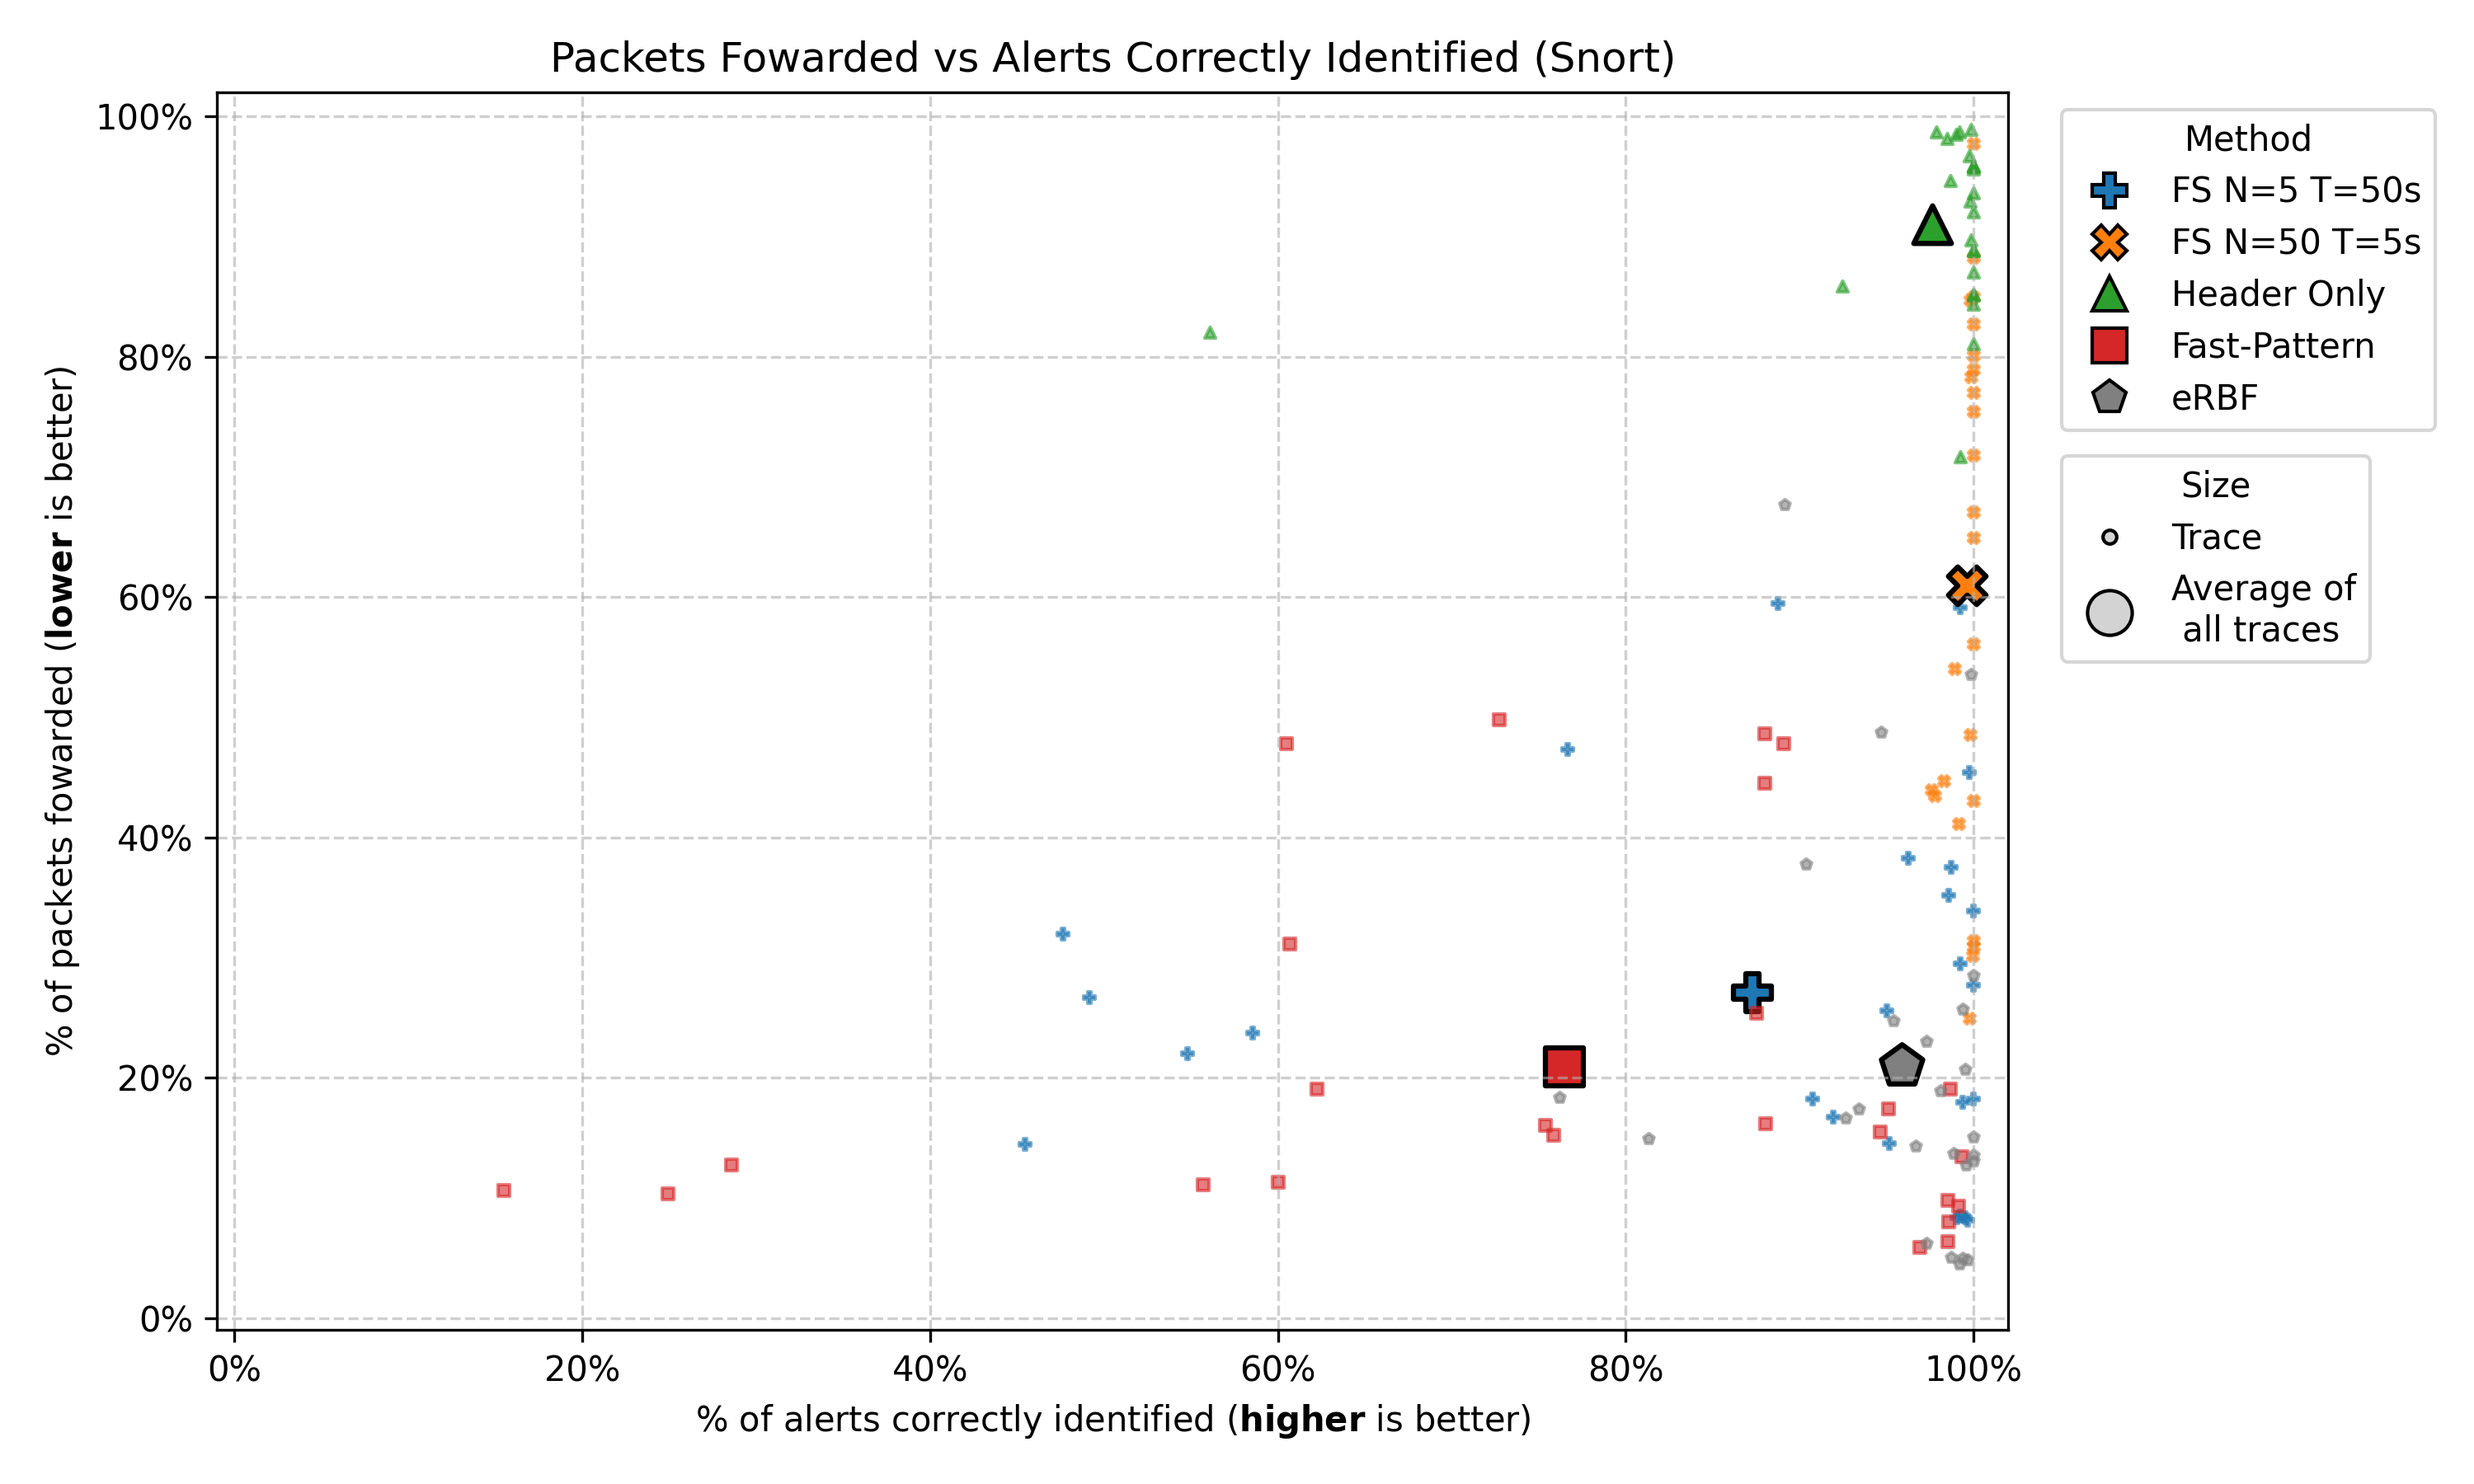
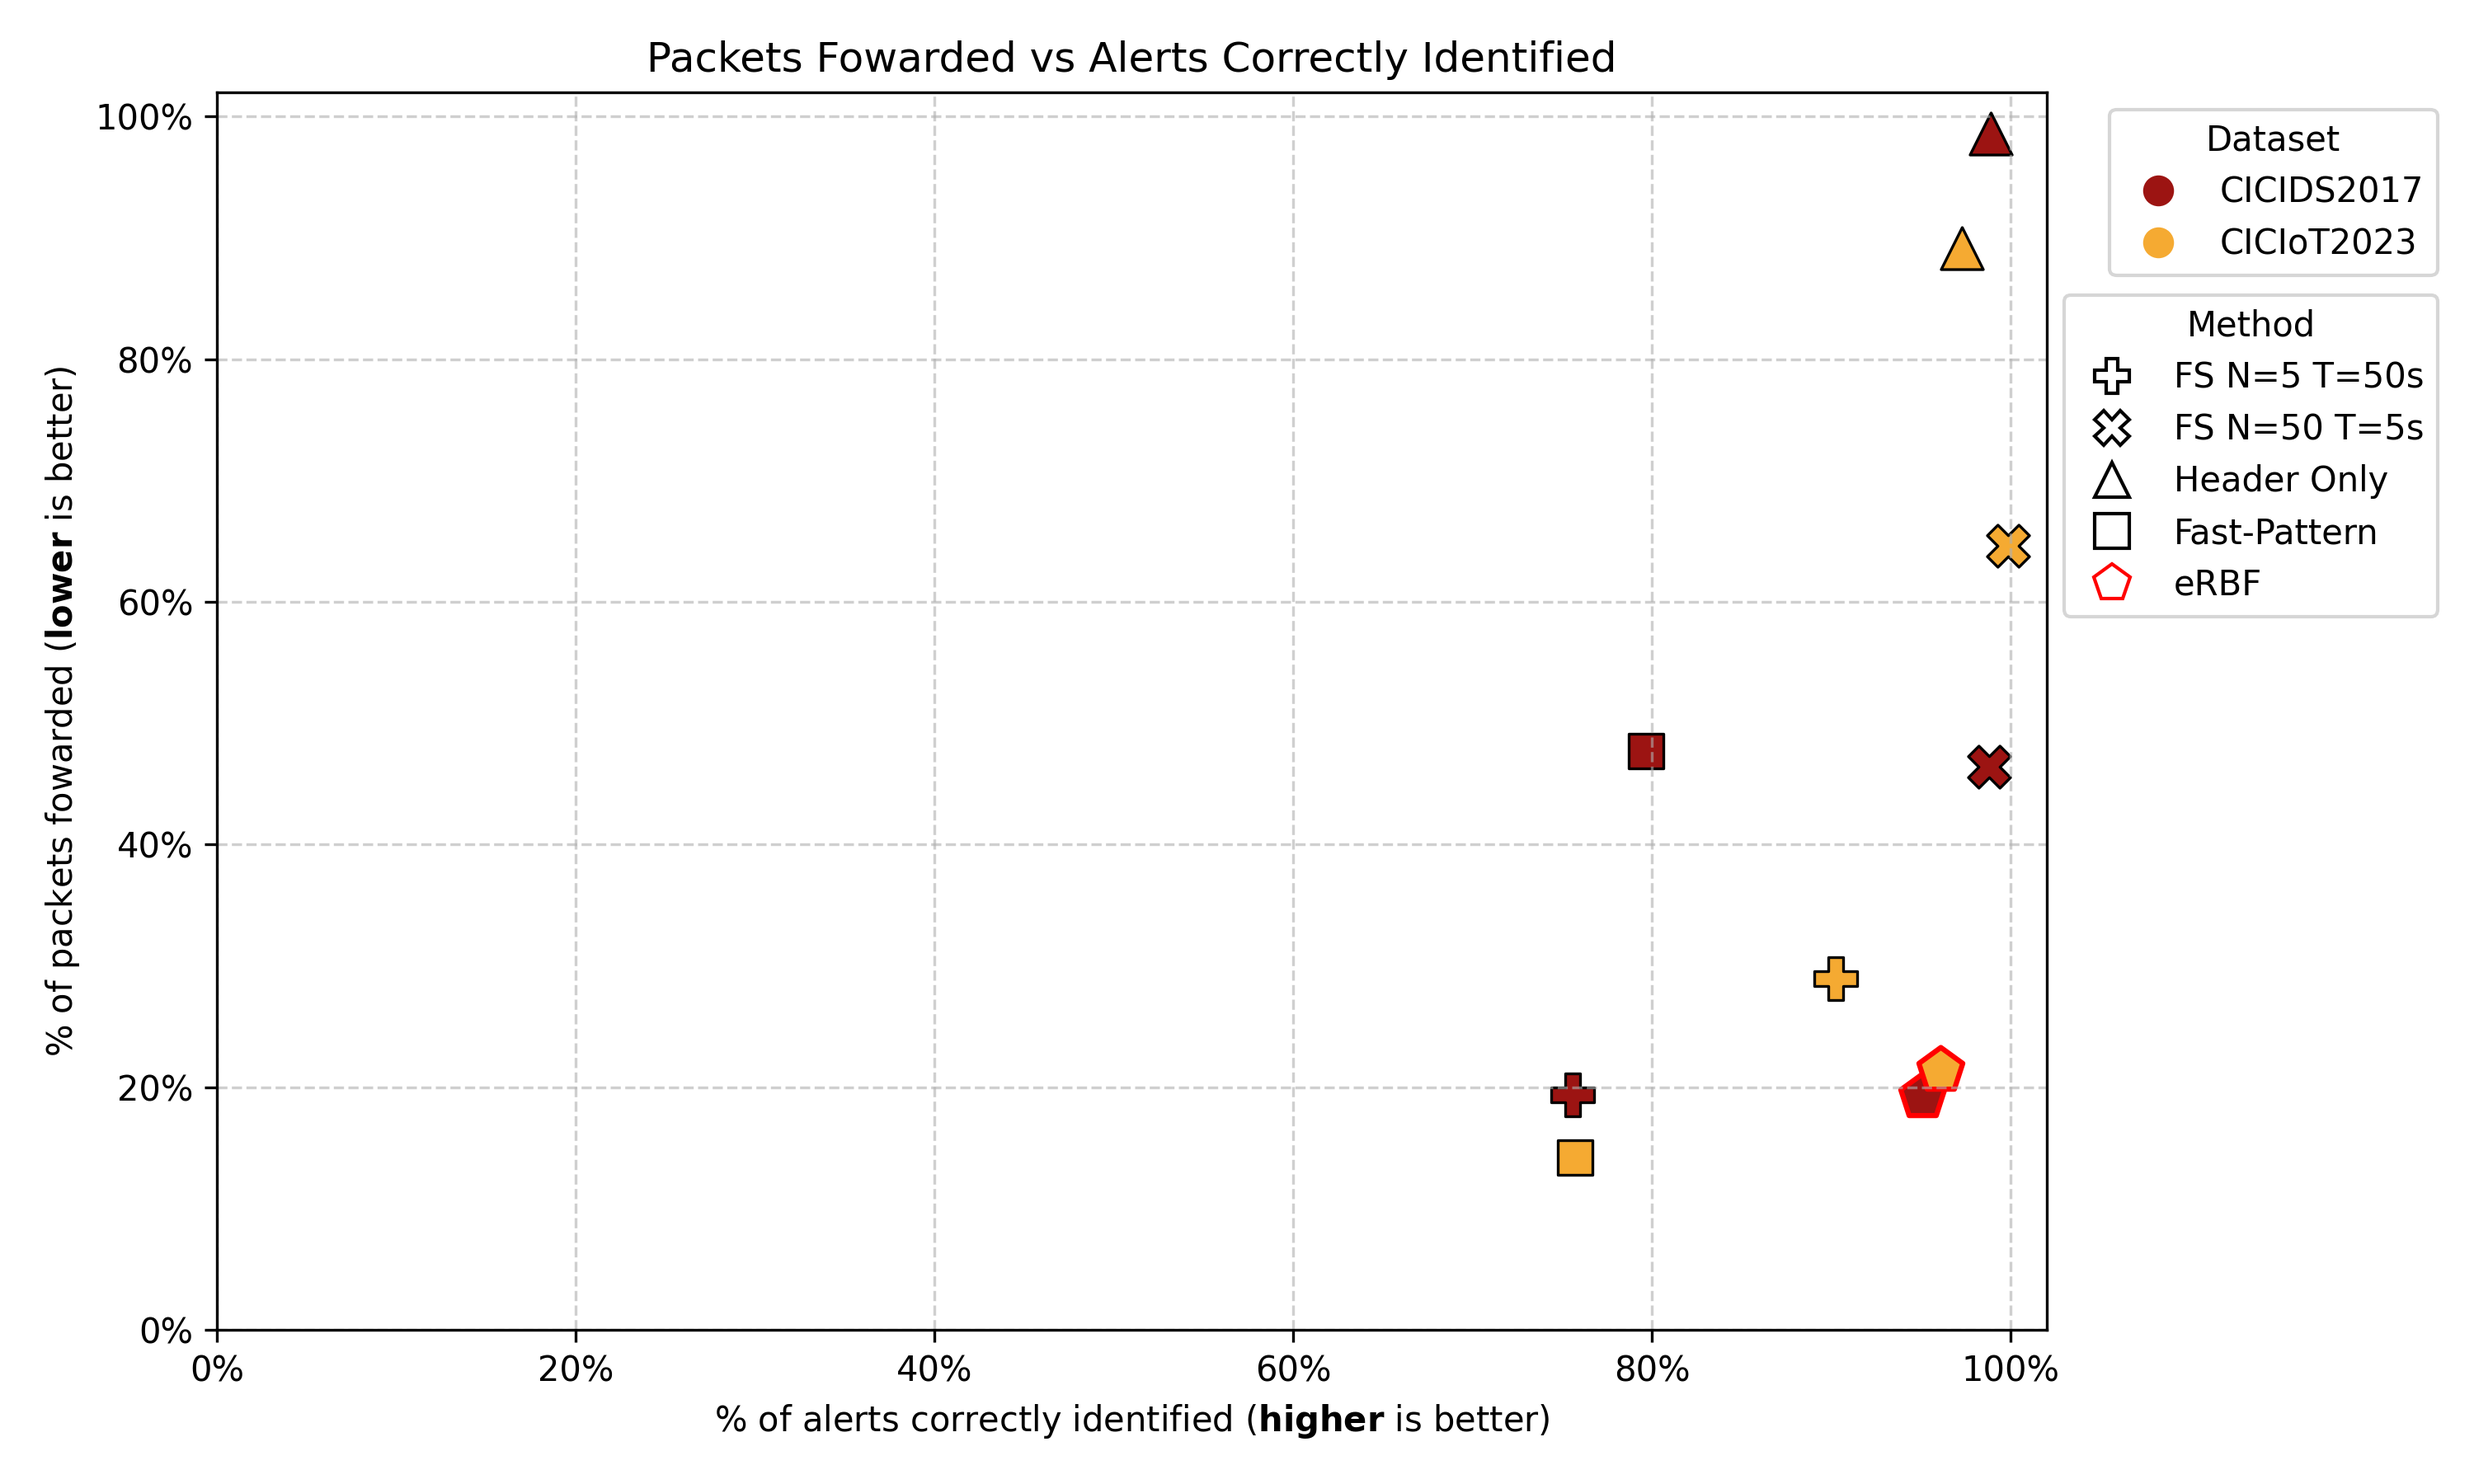
Updated the traces graph to divided for each dataset

diff --git a/analysis/plotting_results.py b/analysis/plotting_results.py
@@ -79,7 +79,7 @@ def fowardedXalerts(df, dataset_name, nids_name, graph_output_dir):
 
 
 # Scatter plot showing the overview of packets fowarded and alerts correctly identified as percentage of the total number of packets and alerts of the baseline for each NIDS
-def overview_of_forwardedXalerts(data_for_global_plot, graph_output_dir):
+def overview_forwardedXalerts(data_for_global_plot, graph_output_dir):
     fig, ax = plt.subplots(figsize=(10, 6))
     dataset_colors = {
         "CICIDS2017": "#9c1412",
@@ -89,10 +89,10 @@ def overview_of_forwardedXalerts(data_for_global_plot, graph_output_dir):
 
     for key, values in data_for_global_plot.items():
         experiment, dataset = key.split("#")
-        print(f"Plotting {experiment} for {dataset}: {values}")
+        # print(f"Plotting {experiment} for {dataset}: {values}")
         ax.scatter(
-            values["experiment_alerts"], 
-            values["pkts_fowarded"], 
+            values["alerts_true_positive_percent"], 
+            values["pkts_fowarded_percent"], 
             color=dataset_colors.get(dataset, "black"), 
             edgecolor="red" if experiment=="eRBF" else "black", 
             linewidth=1.5 if experiment=="eRBF" else 0.8, 
@@ -129,81 +129,60 @@ def overview_of_forwardedXalerts(data_for_global_plot, graph_output_dir):
 
 
 
-def overview_of_forwardedXalerts_traces(data_for_global_plot, graph_output_dir):
-    experiment_colors = {
-        "FS N=5 T=50s": "#1f77b4",
-        "FS N=50 T=5s": "#ff7f0e",
-        "Header Only": "#2ca02c",
-        "Fast-Pattern": "#d62728",
-        "eRBF": "grey"
-    }
-    experiment_markers = {
-        "FS N=5 T=50s": "P",
-        "FS N=50 T=5s": "X",
-        "Header Only": "^",
-        "Fast-Pattern": "s",
-        "eRBF": "p"
-    }
-    nids = "snort"
-
+# Scatter plot showing the overview of packets fowarded and alerts correctly identified as percentage of the total number of packets and alerts of the baseline for each NIDS
+def overview_traces_forwardedXalerts(data_for_global_plot, graph_output_dir):
     fig, ax = plt.subplots(figsize=(10, 6))
+    dataset_colors = {
+        "CICIDS2017": "#9c1412",
+        "CICIoT2023": "#f5aa32"
+    }
+    experiment_markers = {"FS N=5 T=50s": {"type": "P", "size":150},
+                            "FS N=50 T=5s": {"type": "X", "size":150},
+                            "Header Only": {"type": "^", "size":150}, 
+                            "Fast-Pattern": {"type": "s", "size":100}, 
+                            "eRBF": {"type": "p", "size":180}}
+
     for key, values in data_for_global_plot.items():
-        experiment, nids_key = key.split("#")
-        if nids_key != nids:
-            continue
-        x_vals = values["alerts_true_positive_percent"]
-        y_vals = values["pkts_fowarded_percent"]
+        experiment, dataset = key.split("#")
+        avg_alerts = float("{:.2f}".format(np.mean(values["alerts_true_positive_percent"])))
+        avg_pkts = float("{:.2f}".format(np.mean(values["pkts_fowarded_percent"])))
+        print(f"Plotting {experiment} for {dataset}: {avg_pkts}% of packets fowarded {avg_alerts}% of alerts correctly identified")
         ax.scatter(
-            x_vals,
-            y_vals,
-            color=experiment_colors.get(experiment, "black"),
-            alpha=0.6,
-            s=10, 
-            marker=experiment_markers.get(experiment, "o"),
-            label=experiment
-        )
-        # Add average point for each strategy
-        avg_x = np.mean(x_vals)
-        avg_y = np.mean(y_vals)
-        ax.scatter(
-            avg_x,
-            avg_y,
-            color=experiment_colors.get(experiment, "black"),
-            alpha=1.0,
-            s=160 if experiment == "eRBF" else 120,
-            marker=experiment_markers.get(experiment, "o"),
-            edgecolor="black",
-            linewidth=1.5,
-            label=f"{experiment} (avg)"
+            avg_alerts,
+            avg_pkts, 
+            color=dataset_colors.get(dataset, "black"), 
+            edgecolor="red" if experiment=="eRBF" else "black", 
+            linewidth=1.5 if experiment=="eRBF" else 0.8, 
+            s=experiment_markers.get(experiment, {}).get("size", 150),
+            marker=experiment_markers.get(experiment, "")["type"],
+            label=dataset
         )
 
-    ax.set_xlim([-1, 102])
+    ax.set_xlim([0, 102])
     ax.xaxis.set_major_formatter(mtick.PercentFormatter())
     ax.set_xlabel("% of alerts correctly identified " + r"($\bf{higher}$ is better)")
-    ax.set_ylim([-1, 102])
+    ax.set_ylim([0, 102])
     ax.yaxis.set_major_formatter(mtick.PercentFormatter())
     ax.set_ylabel("% of packets fowarded " +  r"($\bf{lower}$ is better)")
-    ax.set_title(f"Packets Fowarded vs Alerts Correctly Identified ({nids.capitalize()})")
-
-    # Only one legend for strategies (color + marker)
-    handles = [
-        plt.Line2D([0], [0], marker="o", color='w',
-                    markerfacecolor="lightgray", markeredgecolor='black', markersize=size, label=label)
-        for size, label in [("4", "Trace"), ("13", "Average of\n all traces")]
+    ax.set_title("Packets Fowarded vs Alerts Correctly Identified")    
+    
+    # Create the NIDS and marker legends individually
+    nids_legend = [
+        plt.Line2D([0], [0], marker='o', color='w', markerfacecolor=color, markersize=10, label=key)
+        for key, color in dataset_colors.items()
     ]
-    leg1 =  ax.legend(handles=handles, loc="upper left", bbox_to_anchor=(1.02, 0.72), title="Size", fontsize=10)
-    ax.add_artist(leg1)
-    handles = [
-        plt.Line2D([0], [0], marker=experiment_markers.get(exp, "o"), color='w',
-                    markerfacecolor=color, markeredgecolor='black', markersize=10, label=exp)
-        for exp, color in experiment_colors.items()
+    legend1 =  ax.legend(handles=nids_legend, loc="upper left", bbox_to_anchor=(1.025, 1), title="Dataset", fontsize=10)
+    ax.add_artist(legend1)
+    experiment_legend = [
+        plt.Line2D([0], [0], marker=marker["type"], color="white", markeredgecolor=("red" if key=="eRBF" else "black"), linestyle='None', markersize=(11 if key=="eRBF" else 10), label=key)
+        for key, marker in experiment_markers.items()
     ]
-    ax.legend(handles=handles, loc="upper left", bbox_to_anchor=(1.02, 1), title="Method", fontsize=10)
+    ax.legend(handles=experiment_legend, loc="upper left", bbox_to_anchor=(1, 0.85), title="Method", fontsize=10)
     ax.grid(True, linestyle="--", alpha=0.6)
 
     plt.tight_layout()
     plt.savefig(f"{graph_output_dir}/overview_traces_forwardedXalerts.png", dpi=300)
-    plt.close()
+    plt.show()
 
 # Boxplot graphs shwoing the number of comparisons done by all packet for the rule-based pre-filtering methods
 def performance(performance_data, graph_output_dir):
@@ -274,7 +253,7 @@ if __name__ == "__main__":
         graph_output_dir = f"{OUTPUT_FOLDER}/{dataset_name}_{target_nids}"
         os.makedirs(graph_output_dir, exist_ok=True)
 
-        print(f"Generating graphs for {dataset_name} with {target_nids}...")
+        # print(f"Generating graphs for {dataset_name} with {target_nids}...")
         data = pd.read_csv(f"csv/{dataset_name}_{target_nids}.csv")
         df = data[data['experiment'].isin(experiment_mapping)]            
         df.loc[:, 'experiment'] = df['experiment'].map(experiment_mapping)
@@ -289,21 +268,16 @@ if __name__ == "__main__":
 
             # Add all for NIDS data irrespective of the dataset
             key = exp+"#"+dataset_name
+
             pkts_fowarded_percentage = (total_pkts_fowarded/total_pkts_processed) * 100
             alerts_percentage = (total_experiment_alerts/total_baseline_alerts) * 100
-            overview_data[key] = {"pkts_fowarded": pkts_fowarded_percentage, "experiment_alerts": alerts_percentage}
+            overview_data[key] = {"pkts_fowarded_percent": pkts_fowarded_percentage, "alerts_true_positive_percent": alerts_percentage}
             
-            key = exp+"#"+target_nids
-            if key in overview_trace_data:
-                overview_trace_data[key]["pkts_fowarded_percent"].extend(group["pkts_fowarded_percent"].to_list())
-                overview_trace_data[key]["alerts_true_positive_percent"].extend(group["alerts_true_positive_percent"].to_list())
-            else:
-                overview_trace_data[key] = {
-                    "pkts_fowarded_percent": group["pkts_fowarded_percent"].to_list(),
-                    "alerts_true_positive_percent": group["alerts_true_positive_percent"].to_list()
-                }
+            overview_trace_data[key] = {
+                "pkts_fowarded_percent": group["pkts_fowarded_percent"].to_list(),
+                "alerts_true_positive_percent": group["alerts_true_positive_percent"].to_list()
+            }
 
-            
             # Grab data for non-flow sampling methods
             if "FS" not in exp:
                 experiment_filename = list(experiment_mapping.keys())[list(experiment_mapping.values()).index(exp)]
@@ -327,7 +301,7 @@ if __name__ == "__main__":
         fowardedXalerts(df, dataset_name, target_nids, graph_output_dir)
 
     performance(performance_data, OUTPUT_FOLDER)
-    overview_of_forwardedXalerts(overview_data, OUTPUT_FOLDER)
-    overview_of_forwardedXalerts_traces(overview_trace_data, OUTPUT_FOLDER)
+    overview_forwardedXalerts(overview_data, OUTPUT_FOLDER)
+    overview_traces_forwardedXalerts(overview_trace_data, OUTPUT_FOLDER)
 
    
